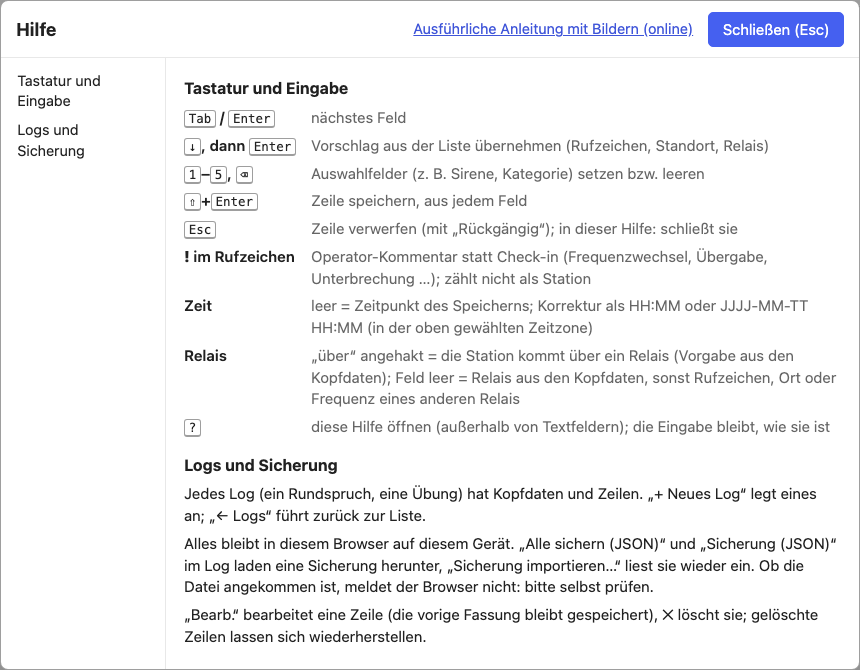
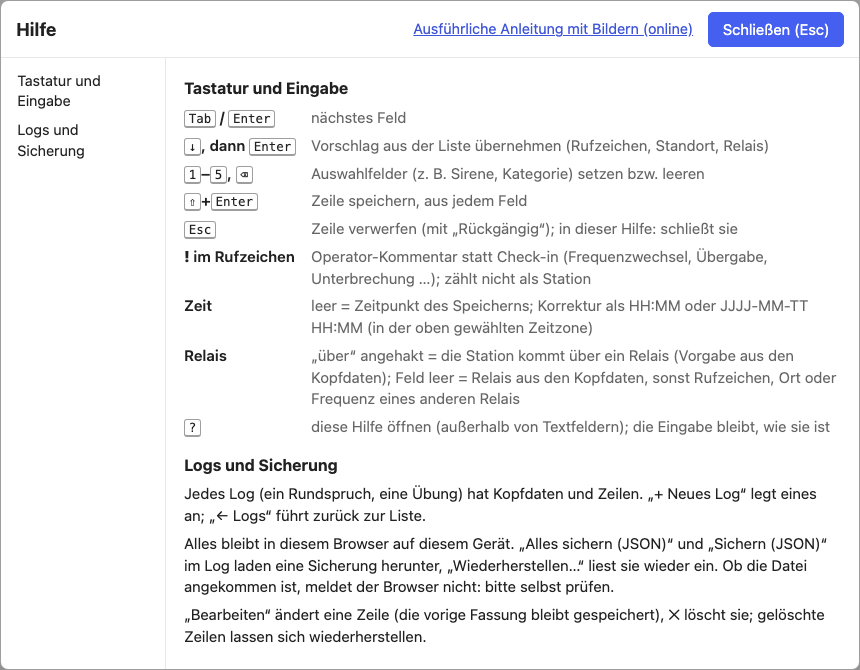
The same words for the same actions in every tool (#108 C2)
A glossary in tools/shared/README.md, applied to Confirm, Notfunk and
Netlog (both languages): "Sichern (JSON)" / "Alles sichern (JSON)" for
backups, "Wiederherstellen…" to read one, "Exportieren" only for other
formats, "Bearbeiten" (Confirm wrote "Bearb."), "Löschen" and "Endgültig
löschen". The manual screenshots keep the sticky header at the top instead
of across the content.

Changed region(s): [[0.2116, 0.806, 0.9674, 0.9254]]

diff --git a/tools/netlog/js/lang-de.js b/tools/netlog/js/lang-de.js
@@ -299,7 +299,7 @@ export const LANG_DE = {
   'help.historyTitle': 'Verlauf einer Station',
   'help.history': '„Verlauf“ unter der Überschrift einer Station zeigt ihre früheren Sitzungen auf diesem Gerät: Notizen, Antworten, Themen und offene Punkte, jeweils mit Sprung zur Quelle (b kehrt zurück). Dieselbe Station heißt: dasselbe Stationsprofil oder dasselbe vollständige Rufzeichen; ein unvollständiges oder anderes Rufzeichen zählt erst nach „Dieselbe Station“. Offene Punkte lassen sich als erledigt markieren oder in diese Sitzung übernehmen, als Aufgabe nach der Runde oder in „Ich bin dran“, mit Verweis auf die Quelle. Die Suche (/) lässt sich auf eine Serie oder die gewählte Station eingrenzen. Nichts wird online nachgeschlagen oder geteilt; Notizen kommen nur in einen Export oder Bericht, wenn du es wählst.',
   'data.seriesWord': 'serie',
-  'data.notThisSeries': 'Diese Datei ist keine Sicherung dieser Serie (andere Dateien über „Sicherung importieren…“ unter „Sicherung und Daten“). Nichts wurde geändert.',
+  'data.notThisSeries': 'Diese Datei ist keine Sicherung dieser Serie (andere Dateien über „Wiederherstellen…“ unter „Sicherung und Daten“). Nichts wurde geändert.',
   'number.decimal': ',',
   'series.stats': v => [
     `${v.n} ${v.n === 1 ? 'Sitzung' : 'Sitzungen'}`, v.range, `⌀ ${v.avg} Stationen`,
@@ -307,7 +307,7 @@ export const LANG_DE = {
   ].join(' · '),
   'series.statsDeleted_one': '{n} gelöschte Sitzung (wiederherstellbar)',
   'series.statsDeleted_other': '{n} gelöschte Sitzungen (wiederherstellbar)',
-  'series.export': 'Sichern',
+  'series.export': 'Sichern (JSON)',
   'series.exportLabel': 'Serie {name} mit allen Sitzungen sichern (JSON)',
   'series.restore': 'Wiederherstellen…',
   'series.restoreLabel': 'Serie {name} aus einer Sicherungsdatei wiederherstellen',
@@ -427,7 +427,7 @@ export const LANG_DE = {
   'footer.local': 'Läuft im Browser; alle Daten bleiben auf diesem Gerät',
   'footer.version': 'Version',
   'footer.source': 'Quellcode',
-  'footer.backupHint': 'Regelmäßig als Sicherung (JSON) exportieren.',
+  'footer.backupHint': 'Regelmäßig sichern (JSON).',
   'data.fileWord': 'sicherung',
   'backup.started': 'Sicherung gestartet {time}',
   'backup.since_one': '{n} Notiz ungesichert',
@@ -706,8 +706,8 @@ export const LANG_DE = {
 
   'data.title': 'Sicherung und Daten',
   'data.plaintext': 'Eine Sicherung ist eine einfache JSON-Datei: wer die Datei hat, kann sie lesen. Was hier gelöscht wird, verschwindet nicht aus schon exportierten Kopien.',
-  'data.exportAll': 'Alle sichern (JSON)',
-  'data.import': 'Sicherung importieren…',
+  'data.exportAll': 'Alles sichern (JSON)',
+  'data.import': 'Wiederherstellen…',
   'data.profiles': 'Stationsprofile',
   'data.links': 'Links zum Nachschlagen',
   'data.wavelog': 'Meine Wavelog-Adresse (optional)',
@@ -720,8 +720,8 @@ export const LANG_DE = {
   'data.allErased': 'Alle Netlog-Daten auf diesem Gerät wurden gelöscht.',
   'data.exported': 'Download der Sicherung (JSON) gestartet: {name}. Ob die Datei angekommen ist, meldet der Browser nicht; bitte prüfen, bevor du dich darauf verlässt.',
   'data.readFailed': 'Die Daten konnten für die Sicherung nicht gelesen werden: {error}',
-  'data.tooLarge': 'Nicht exportiert: die Sicherung wäre größer als {mb} MB und ließe sich nicht in einem Stück wiederherstellen. Bitte einzelne Sitzungen exportieren (Exportieren in der Sitzungsliste).',
-  'data.tooManyRecords': 'Nicht exportiert: die Sicherung hätte mehr als 200.000 Einträge und ließe sich nicht in einem Stück wiederherstellen. Bitte einzelne Sitzungen exportieren.',
+  'data.tooLarge': 'Nicht gesichert: die Sicherung wäre größer als {mb} MB und ließe sich nicht in einem Stück wiederherstellen. Bitte einzelne Sitzungen sichern („Sichern (JSON)“ in der Sitzungsliste).',
+  'data.tooManyRecords': 'Nicht gesichert: die Sicherung hätte mehr als 200.000 Einträge und ließe sich nicht in einem Stück wiederherstellen. Bitte einzelne Sitzungen sichern.',
   'data.tooLargeImport': 'Nicht importiert: die Datei ist größer als {mb} MB. Nichts wurde geändert.',
   'data.notJson': 'Nicht importiert: das ist keine JSON-Datei. Nichts wurde geändert.',
   'data.bad.notBackup': 'Nicht importiert: das ist keine Netlog-Sicherung. Nichts wurde geändert.',
@@ -733,7 +733,7 @@ export const LANG_DE = {
   'data.imported': 'Importiert: {sessions} Sitzungen ({copies} als Kopie, weil es hier schon eine Sitzung mit derselben Kennung gibt), {series} Serien, {profiles} Profile; {identical} unverändert schon vorhanden. Nichts Gespeichertes wurde überschrieben.',
   'data.copySuffix': ' (Import)',
   'data.noProfiles': 'Noch keine Stationsprofile („Als Stationsprofil speichern“ in den Details einer Station).',
-  'data.eraseProfile': 'Löschen',
+  'data.eraseProfile': 'Endgültig löschen',
   'data.eraseProfileLabel': 'Stationsprofil {call} endgültig löschen',
   'data.eraseProfileConfirm': 'Stationsprofil {call} löschen? Sitzungen behalten ihre eigene Kopie der Station.',
   'data.profileErased': 'Profil {call} gelöscht.',
@@ -742,8 +742,8 @@ export const LANG_DE = {
   'data.wavelogBad': 'Das ist keine Webadresse (https://…, ohne Benutzername oder Passwort).',
   'data.wavelogSaved': 'Wavelog-Adresse gespeichert.',
   'data.wavelogCleared': 'Wavelog-Adresse entfernt.',
-  'session.export': 'Sicherung (JSON)',
-  'session.exportLabel': 'Sicherung (JSON) der Sitzung {name}',
+  'session.export': 'Sichern (JSON)',
+  'session.exportLabel': 'Sitzung {name} sichern (JSON)',
   'session.erase': 'Endgültig löschen',
   'session.eraseLabel': 'Sitzung {name} endgültig löschen',
   'station.remove': 'Aus dieser Sitzung entfernen',

diff --git a/tools/netlog/js/lang-en.js b/tools/netlog/js/lang-en.js
@@ -298,7 +298,7 @@ export const LANG_EN = {
   'help.historyTitle': 'History of a station',
   'help.history': '"History" under a station\'s heading shows its earlier sessions on this device: notes, replies, topics and open follow-ups, each opening its source (b returns). The same station means the same station profile or the same full callsign; a partial or different callsign only counts after "Same station". Open follow-ups can be marked done or carried into this session as an after-net task or into My Turn, with a link to their source. Search (/) can be limited to a series or to the selected station. Nothing is looked up online or shared; notes go into an export or report only when you choose it.',
   'data.seriesWord': 'series',
-  'data.notThisSeries': 'This file is not a backup of this series (use "Import a backup…" under "Backup and data" for other files). Nothing was changed.',
+  'data.notThisSeries': 'This file is not a backup of this series (use "Restore…" under "Backup and data" for other files). Nothing was changed.',
   'number.decimal': '.',
   'series.stats': v => [
     `${v.n} ${v.n === 1 ? 'session' : 'sessions'}`, v.range, `⌀ ${v.avg} stations`,
@@ -306,7 +306,7 @@ export const LANG_EN = {
   ].join(' · '),
   'series.statsDeleted_one': '{n} deleted session (restorable)',
   'series.statsDeleted_other': '{n} deleted sessions (restorable)',
-  'series.export': 'Back up',
+  'series.export': 'Back up (JSON)',
   'series.exportLabel': 'Back up series {name} with all its sessions (JSON)',
   'series.restore': 'Restore…',
   'series.restoreLabel': 'Restore series {name} from a backup file',
@@ -426,7 +426,7 @@ export const LANG_EN = {
   'footer.local': 'Runs in the browser; all data stays on this device',
   'footer.version': 'Version',
   'footer.source': 'Source code',
-  'footer.backupHint': 'Export a backup (JSON) regularly.',
+  'footer.backupHint': 'Back up (JSON) regularly.',
   'data.fileWord': 'backup',
   'backup.started': 'backup started {time}',
   'backup.since_one': '{n} note not in it',
@@ -706,7 +706,7 @@ export const LANG_EN = {
   'data.title': 'Backup and data',
   'data.plaintext': 'A backup is a plain JSON file: anyone with the file can read it. Deleting something here does not delete copies already exported.',
   'data.exportAll': 'Back up all (JSON)',
-  'data.import': 'Import backup…',
+  'data.import': 'Restore…',
   'data.profiles': 'Station profiles',
   'data.links': 'Station lookup links',
   'data.wavelog': 'My Wavelog address (optional)',
@@ -719,8 +719,8 @@ export const LANG_EN = {
   'data.allErased': 'All Netlog data on this device was erased.',
   'data.exported': 'Download of the backup (JSON) started: {name}. The browser does not say whether the file arrived; check it before relying on it.',
   'data.readFailed': 'The data could not be read for the backup: {error}',
-  'data.tooLarge': 'Not exported: the backup would be larger than {mb} MB and could not be restored in one go. Export single sessions instead (Export in the session list).',
-  'data.tooManyRecords': 'Not exported: the backup would have more than 200,000 records and could not be restored in one go. Export single sessions instead.',
+  'data.tooLarge': 'Not backed up: the backup would be larger than {mb} MB and could not be restored in one go. Back up single sessions instead ("Back up (JSON)" in the session list).',
+  'data.tooManyRecords': 'Not backed up: the backup would have more than 200,000 records and could not be restored in one go. Back up single sessions instead.',
   'data.tooLargeImport': 'Not imported: the file is larger than {mb} MB. Nothing was changed.',
   'data.notJson': 'Not imported: this is not a JSON file. Nothing was changed.',
   'data.bad.notBackup': 'Not imported: this is no Netlog backup. Nothing was changed.',
@@ -741,8 +741,8 @@ export const LANG_EN = {
   'data.wavelogBad': 'That is no web address (https://…, without user name or password).',
   'data.wavelogSaved': 'Wavelog address saved.',
   'data.wavelogCleared': 'Wavelog address removed.',
-  'session.export': 'Backup (JSON)',
-  'session.exportLabel': 'Backup (JSON) of session {name}',
+  'session.export': 'Back up (JSON)',
+  'session.exportLabel': 'Back up session {name} (JSON)',
   'session.erase': 'Erase',
   'session.eraseLabel': 'Erase session {name} permanently',
   'station.remove': 'Remove from this session',

diff --git a/tools/confirm/index.html b/tools/confirm/index.html
@@ -92,9 +92,9 @@
       </div>
       <span class="spacer"></span>
       <button type="button" id="btn-new-event" class="primary" aria-expanded="false" aria-controls="new-event">+ Neues Log</button>
-      <button type="button" id="btn-import">Sicherung importieren…</button>
+      <button type="button" id="btn-import" title="Eine Sicherung (JSON) einlesen: Logs aus der Datei übernehmen">Wiederherstellen…</button>
       <input type="file" id="import-file" accept=".json,application/json" multiple hidden>
-      <button type="button" id="btn-backup-all">Alle sichern (JSON)</button>
+      <button type="button" id="btn-backup-all">Alles sichern (JSON)</button>
     </div>
 
     <div id="import-msg" class="banner warn" role="status" hidden></div>
@@ -152,7 +152,7 @@
           <button type="button" data-export="kml" title="Stationen mit Standort (Google Earth, Google My Maps)">KML (Karte)</button>
           <button type="button" data-export="summary">Zusammenfassung</button>
           <hr>
-          <button type="button" data-export="json" title="Vollständige Sicherung dieses Logs">Sicherung (JSON)</button>
+          <button type="button" data-export="json" title="Vollständige Sicherung dieses Logs">Sichern (JSON)</button>
           <button type="button" data-export="print">Drucken</button>
         </div>
       </div>
@@ -271,8 +271,8 @@
       <section id="h-logs" aria-labelledby="h-logs-t">
         <h3 id="h-logs-t">Logs und Sicherung</h3>
         <p>Jedes Log (ein Rundspruch, eine Übung) hat Kopfdaten und Zeilen. „+ Neues Log“ legt eines an; „← Logs“ führt zurück zur Liste.</p>
-        <p>Alles bleibt in diesem Browser auf diesem Gerät. „Alle sichern (JSON)“ und „Sicherung (JSON)“ im Log laden eine Sicherung herunter, „Sicherung importieren…“ liest sie wieder ein. Ob die Datei angekommen ist, meldet der Browser nicht: bitte selbst prüfen.</p>
-        <p>„Bearb.“ bearbeitet eine Zeile (die vorige Fassung bleibt gespeichert), ✕ löscht sie; gelöschte Zeilen lassen sich wiederherstellen.</p>
+        <p>Alles bleibt in diesem Browser auf diesem Gerät. „Alles sichern (JSON)“ und „Sichern (JSON)“ im Log laden eine Sicherung herunter, „Wiederherstellen…“ liest sie wieder ein. Ob die Datei angekommen ist, meldet der Browser nicht: bitte selbst prüfen.</p>
+        <p>„Bearbeiten“ ändert eine Zeile (die vorige Fassung bleibt gespeichert), ✕ löscht sie; gelöschte Zeilen lassen sich wiederherstellen.</p>
       </section>
     </div>
   </div>

diff --git a/tools/notfunk/index.html b/tools/notfunk/index.html
@@ -64,7 +64,7 @@
       </div>
       <span class="spacer"></span>
       <button type="button" id="btn-new-op" class="primary" aria-expanded="false" aria-controls="new-op">+ Neuer Einsatz</button>
-      <button type="button" id="btn-import">Sicherung importieren…</button>
+      <button type="button" id="btn-import" title="Eine Sicherung (JSON) einlesen: Einsätze und Meldungen aus der Datei übernehmen">Wiederherstellen…</button>
       <button type="button" id="btn-blank-form" title="Leeres Meldeaufnahmeformular, z. B. als Vorrat für die Arbeit ohne Gerät: die Anzahl im Druckdialog wählen, oder „Als PDF sichern“">Leeres Formular drucken / PDF</button>
       <input type="file" id="import-file" accept=".json,application/json" multiple hidden aria-label="Sicherung (JSON) wählen">
     </div>
@@ -133,7 +133,7 @@
       <h2 id="book-title">Meldebuch</h2>
       <span class="spacer"></span>
       <button type="button" id="btn-csv" title="Geschäftsbuch-Spalten (SKKM / ÖBFV E-31) für Excel">Geschäftsbuch (CSV)</button>
-      <button type="button" id="btn-backup" title="Vollständige Sicherung dieses Einsatzes, auch gelöschte Meldungen und Fassungen">Sicherung (JSON)</button>
+      <button type="button" id="btn-backup" title="Vollständige Sicherung dieses Einsatzes, auch gelöschte Meldungen und Fassungen">Sichern (JSON)</button>
       <button type="button" id="btn-print-book" aria-expanded="false" aria-controls="print-range">Drucken / PDF…</button>
     </div>
 
@@ -470,7 +470,7 @@
 
 <footer class="no-print">
   Läuft vollständig offline im Browser; alle Daten bleiben auf diesem Gerät (<span id="st-backend">?</span>).
-  Regelmäßig als Sicherung (JSON) exportieren. · Version: <span id="st-version">dev</span>
+  Regelmäßig sichern (JSON). · Version: <span id="st-version">dev</span>
   <!-- Filled by js/app.js with the link to the source code (repoLink()). -->
   <span id="st-source" class="online-only"></span>
   <span id="offline-file-link"> · <a href="notfunk-offline.html" download="notfunk-meldebuch-offline.html">Offline-Datei</a></span>

diff --git a/tools/confirm/js/app.js b/tools/confirm/js/app.js
@@ -1736,8 +1736,8 @@ function buildLogRow(e, { tpl, n, showDate, cols }) {
       timeMode() === 'local' && zoneLabel(e.ts, 'local') !== zoneLabel(nowIso(), 'local') ? el('span', { class: 'date' }, ' ' + zoneLabel(e.ts, 'local')) : null];
     const what = isComment(e) ? `Kommentar ${time}` : `Nr. ${e.seq} ${e.call}`;
     const actions = [
-      // the name starts with the visible "Bearb." (WCAG 2.5.3), the rest is for screen readers
-      el('button', { type: 'button', disabled: state.readOnly, onclick: () => startEdit(e.id) }, 'Bearb.', el('span', { class: 'sr-only' }, ` – ${what} bearbeiten`)),
+      // the name starts with the visible "Bearbeiten" (WCAG 2.5.3), the rest is for screen readers
+      el('button', { type: 'button', disabled: state.readOnly, onclick: () => startEdit(e.id) }, 'Bearbeiten', el('span', { class: 'sr-only' }, ` – ${what}`)),
       ' ',
       el('button', { type: 'button', class: 'danger', disabled: state.readOnly, 'aria-label': `${what} löschen`, title: 'Löschen',
         onclick: () => setDeleted(e.id, true) }, '✕'),
@@ -1876,7 +1876,7 @@ async function importFiles(files) {
 async function importData(name, data, check) {
   const fail = (...content) => ({ kind: 'err', content: [el('strong', {}, 'Nicht importiert: '), ...content] });
   if (check.notBackup) {
-    return fail(`„${name}“ ist keine Sicherung des Bestätigungsverkehrs (Datei „Sicherung (JSON)“ / „Alle sichern (JSON)“).`);
+    return fail(`„${name}“ ist keine Sicherung des Bestätigungsverkehrs (Datei von „Sichern (JSON)“ / „Alles sichern (JSON)“).`);
   }
   if (!check.ok) {
     return fail(`„${name}“ ist keine gültige Sicherung – es wurde nichts geändert.`, el('ul', {}, check.errors.map(m => el('li', {}, m))));

diff --git a/tools/netlog/index.html b/tools/netlog/index.html
@@ -394,8 +394,8 @@
           <h3 id="data-title" data-i18n="data.title">Backup and data</h3>
           <p class="hint" data-i18n="data.plaintext">A backup is a plain JSON file: anyone with the file can read it. Deleting something here does not delete copies already exported.</p>
           <div class="toolbar">
-            <button type="button" id="btn-export-all" data-i18n="data.exportAll">Export everything (JSON)</button>
-            <button type="button" id="btn-import" data-i18n="data.import">Import a backup…</button>
+            <button type="button" id="btn-export-all" data-i18n="data.exportAll">Back up all (JSON)</button>
+            <button type="button" id="btn-import" data-i18n="data.import">Restore…</button>
             <input type="file" id="import-file" accept=".json,application/json" hidden>
           </div>
           <p id="data-msg" class="data-msg" role="status"></p>

diff --git a/tools/confirm/js/backup.js b/tools/confirm/js/backup.js
@@ -203,7 +203,7 @@ export function backupTexts(events, exported, setId, limits) {
     }
     return JSON.stringify({ format: BACKUP_FORMAT, version: 1, exported, ...(part ? { part } : {}), events: out, ...(chunks.length ? { chunks } : {}) }, null, 1);
   };
-  const tooLarge = backupTooLargeMessage('Bitte die einzelnen Logs getrennt sichern (Sicherung (JSON) im jeweiligen Log).');
+  const tooLarge = backupTooLargeMessage('Bitte die einzelnen Logs getrennt sichern („Sichern (JSON)“ im jeweiligen Log).');
   // a note, comment or revision text beyond the chunk size is written as chunks
   // (chunkRecord) in the parts and put together again by combineBackupParts()
   const expand = list => list.flatMap(it => {

diff --git a/tools/notfunk/js/app.js b/tools/notfunk/js/app.js
@@ -91,7 +91,7 @@ function showSaveError(err) {
   console.error(err);
   const b = $('#banner');
   fill(b,
-    'SPEICHERN FEHLGESCHLAGEN – die Eingabe ist noch im Formular. Bitte sofort eine Sicherung (JSON) exportieren. ',
+    'SPEICHERN FEHLGESCHLAGEN – die Eingabe ist noch im Formular. Bitte sofort sichern („Sichern (JSON)“). ',
     el('small', {}, `(${err && (err.message || err.name) || err})`),
     el('button', { type: 'button', onclick: () => { b.hidden = true; } }, 'ausblenden'));
   b.hidden = false;

diff --git a/tools/netlog/js/dataui.js b/tools/netlog/js/dataui.js
@@ -36,7 +36,7 @@ function slug(text) {
     .replace(/[^A-Za-z0-9]+/g, '-').replace(/^-|-$/g, '').slice(0, 40);
 }
 
-// Export everything, one series (opts.seriesId) or one session. Refused
+// Back up everything, one series (opts.seriesId) or one session. Refused
 // (nothing downloaded) beyond the restore limits.
 export async function exportBackup(app, sessionId = null, { seriesId = null, msg = null } = {}) {
   await app.flush();

diff --git a/docs/confirm-anleitung.md b/docs/confirm-anleitung.md
@@ -23,7 +23,7 @@ Kopfzeile oder die Taste <kbd>?</kbd> (außerhalb von Textfeldern).
    dann Operator, Station und Relais eintragen ([Kopfdaten](#kopfdaten)).
 3. Das erste Rufzeichen eintippen und mit <kbd>⇧</kbd>+<kbd>Enter</kbd>
    speichern ([Check-ins aufnehmen](#check-ins-aufnehmen)).
-4. Am Ende „Exportieren ▾“ → „Sicherung (JSON)“, dazu CSV oder ADIF
+4. Am Ende „Exportieren ▾“ → „Sichern (JSON)“, dazu CSV oder ADIF
    ([Export und Sicherung](#export-und-sicherung)).
 
 ## Vorbereitung
@@ -100,7 +100,7 @@ Datenträger, USB-Stick, anderer Rechner). Probieren Sie den Import
 gelegentlich aus. Die Sicherung ist eine Momentaufnahme dieses Logs mit
 allen Zeilen, auch den gelöschten, und enthält die Daten **unverschlüsselt**.
 
-**Sicherung importieren.** „Sicherung importieren…“ auf der Startseite:
+**Wiederherstellen.** „Wiederherstellen…“ auf der Startseite liest eine Sicherung ein:
 
 - Die Datei wird zuerst geprüft. Ist sie keine gültige Sicherung des
   Bestätigungsverkehrs, wird nichts importiert und nichts verändert.
@@ -234,7 +234,7 @@ wird daraus ein Kommentar statt eines Check-ins: „!Netz pausiert“,
 ![Log mit Check-ins und einem Kommentar](img/confirm-log.png)
 
 Neueste Zeile oben. Oben stehen die Zahlen: Stationen und Check-ins.
-„Bearb.“ bearbeitet eine Zeile (die vorige Fassung bleibt gespeichert), ✕
+„Bearbeiten“ ändert eine Zeile (die vorige Fassung bleibt gespeichert), ✕
 löscht sie (wiederherstellbar unter „Gelöschte Zeilen und automatische
 Sicherungen“). Die Spalte **Quelle** sagt, woher der Standort kommt: *Suche*
 (Ortssuche), *früher* (aus einem früheren Check-in), *Call* (Lizenzadresse
@@ -287,7 +287,7 @@ Stationen ohne Standort stehen unter der Karte.
 | KML (Karte) | Stationen mit Standort für Google Earth / Google My Maps |
 | Zusammenfassung | Text: Rufzeichen, Statistik (beim Probealarm Sirenen-Noten und AT-Alert), Standorte, Kommentare und Operators |
 | Drucken | das Log als Tabelle |
-| Sicherung (JSON) | das ganze Log, auch gelöschte Zeilen; auf der Startseite mit „Sicherung importieren…“ wieder einspielen |
+| Sichern (JSON) | das ganze Log, auch gelöschte Zeilen; auf der Startseite mit „Wiederherstellen…“ wieder einspielen |
 
 Ein Hinweis neben dem Titel erinnert an eine Sicherung, wenn seit dem letzten
 Export viele Zeilen dazugekommen sind. Auf der Startseite sichert „Alle

diff --git a/tools/shared/README.md b/tools/shared/README.md
@@ -349,6 +349,22 @@ service workers are missing on plain `http://` and `file://`.
   (`trackExpanded()`); every field has a `<label>` or `aria-label`;
   decorative glyphs are `aria-hidden`; status lines are `role="status"` /
   `aria-live` and only rewritten when their text changes.
+- **Words for actions** (#108 C2; `AGENTS.md`, "UX and accessibility"):
+  the same action has the same name in every tool.
+
+  | Action | German | English (Netlog) |
+  | --- | --- | --- |
+  | download a backup (JSON) of one log, operation, session or series | Sichern (JSON) | Back up (JSON) |
+  | the same for everything | Alles sichern (JSON) | Back up all (JSON) |
+  | read a backup file | Wiederherstellen… | Restore… |
+  | other formats (CSV, ADIF, KML, report, print) | Exportieren | Export |
+  | change an entry | Bearbeiten (a symbol such as ✎ only with that name) | Edit |
+  | delete, reversible | Löschen (✕ with the name „… löschen“) | Delete |
+  | bring back a deleted entry | wiederherstellen | Restore |
+  | remove for good | Endgültig löschen | Erase |
+
+  "…" means the action asks for something (a file) first. A backup is
+  never called an export.
 - **Common header** (`css/tools.css`, #108): `#site-header` holds, in this
   order, `#home-link` ("← Alle Tools"), the `h1.title`, links about the tool
   (`.hdr-link`: manual, single file, source), `.hdr-status` (status chips and

diff --git a/docs/notfunk-anleitung.md b/docs/notfunk-anleitung.md
@@ -382,12 +382,12 @@ Zeitraum (Von/Bis je Datum und Uhrzeit; nur ein Datum = der ganze Tag).
   ein `'` vorangestellt, damit Excel sie nicht als Formel ausführt (Zahlen
   wie `-10` bleiben unverändert); die Meldung nach dem Herunterladen sagt,
   wie viele. Die Sicherung (JSON) enthält die Werte unverändert.
-- **Sicherung (JSON):** der ganze Einsatz mit gelöschten Meldungen, allen
+- **Sichern (JSON):** der ganze Einsatz mit gelöschten Meldungen, allen
   Fassungen und den Nummernzählern, **unverschlüsselt**. Sie wird aus dem
   gespeicherten Stand gelesen, also aus dem, was abgeschlossen ist (nicht
   aus dem Entwurf). Kann der Speicher nicht gelesen werden, steht beim
   Download „der Speicher war nicht lesbar, sie enthält den Stand dieses
-  Tabs“. Auf der Startseite mit „Sicherung importieren…“ wieder einspielen,
+  Tabs“. Auf der Startseite mit „Wiederherstellen…“ wieder einspielen,
   auch auf einem anderen Gerät. Bücher mehrerer Geräte lassen sich so
   zusammenführen, wenn jedes Gerät ein eigenes Stationskürzel hat.
   Ist die Sicherung sehr groß (über 50 MB oder 200000 Meldungen und
